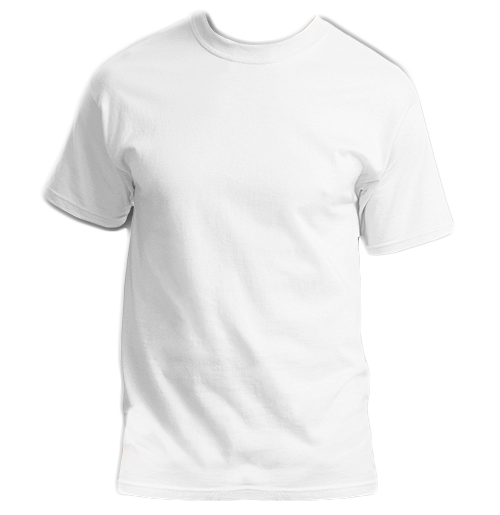
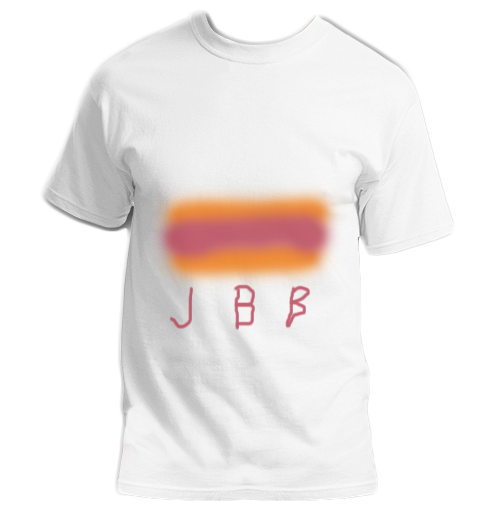
NEW MErCH!!!

Changed region(s): [[0.3, 0.3728, 0.69, 0.6524]]

diff --git a/merch.html b/merch.html
@@ -48,7 +48,7 @@
     </section><!--
 
     --><section class="merchItem col-1-2">
-        <img src="assets/images/tshirt1.png" alt="Merchandise"/><!--
+        <img src="assets/images/tshirt2.png" alt="Merchandise"/><!--
         --><article>
           <h3>John Billy Band T-Shirt</h3>
           <small>White with custom design</small>
@@ -64,7 +64,7 @@
     </section><!--
 
     --><section class="merchItem col-1-2">
-        <img src="assets/images/tshirt1.png" alt="Merchandise"/>
+        <img src="assets/images/tshirt3.png" alt="Merchandise"/>
           <article>
           <h3>C00l emoji T-Shirt</h3>
           <small>White with custom design</small>
@@ -83,8 +83,8 @@
 
           <img src="assets/images/tshirt1.png" alt="Merchandise"/><!--
           --><article>
-            <h3>C00l emoji T-Shirt</h3>
-            <small>White with custom design</small>
+            <h3>Råkul hvit tee</h3>
+            <small>Plain white with handpickedcotton</small>
             <p class="price">kr 2999</p>
             <p>
               <form action="/action_page.php">
